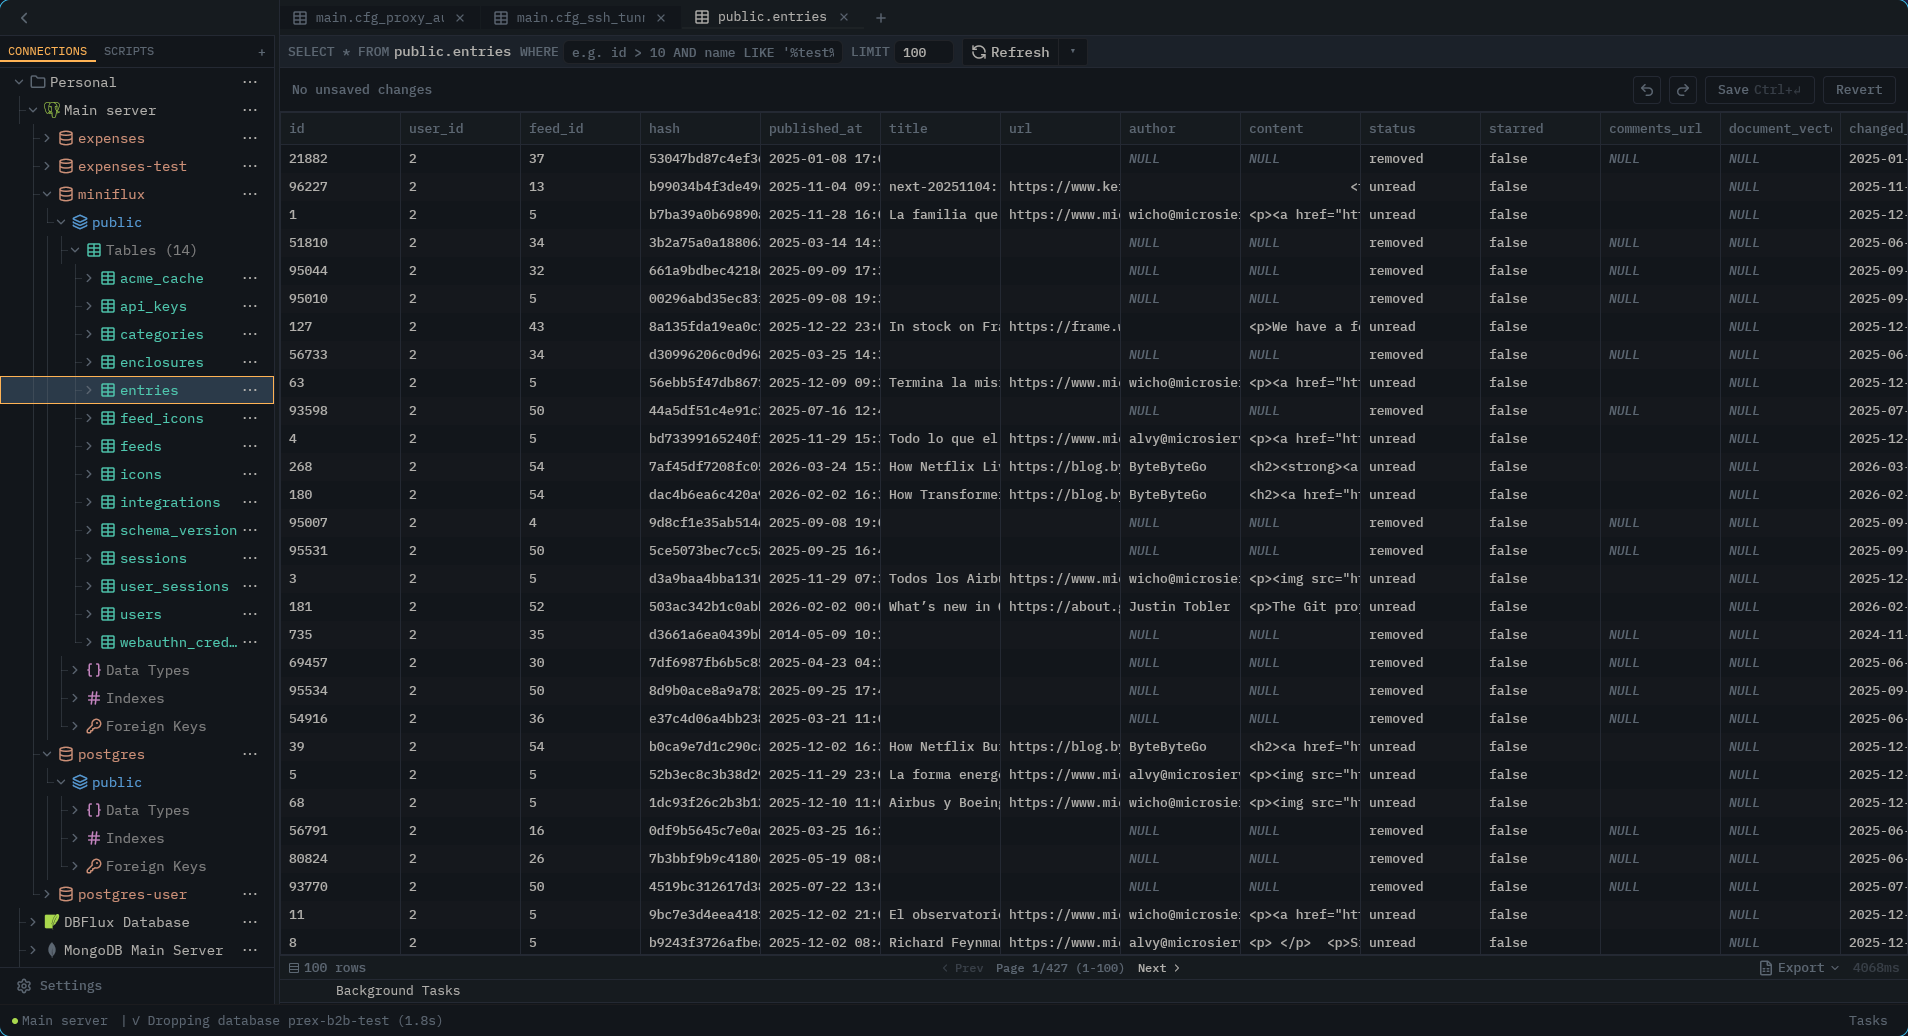
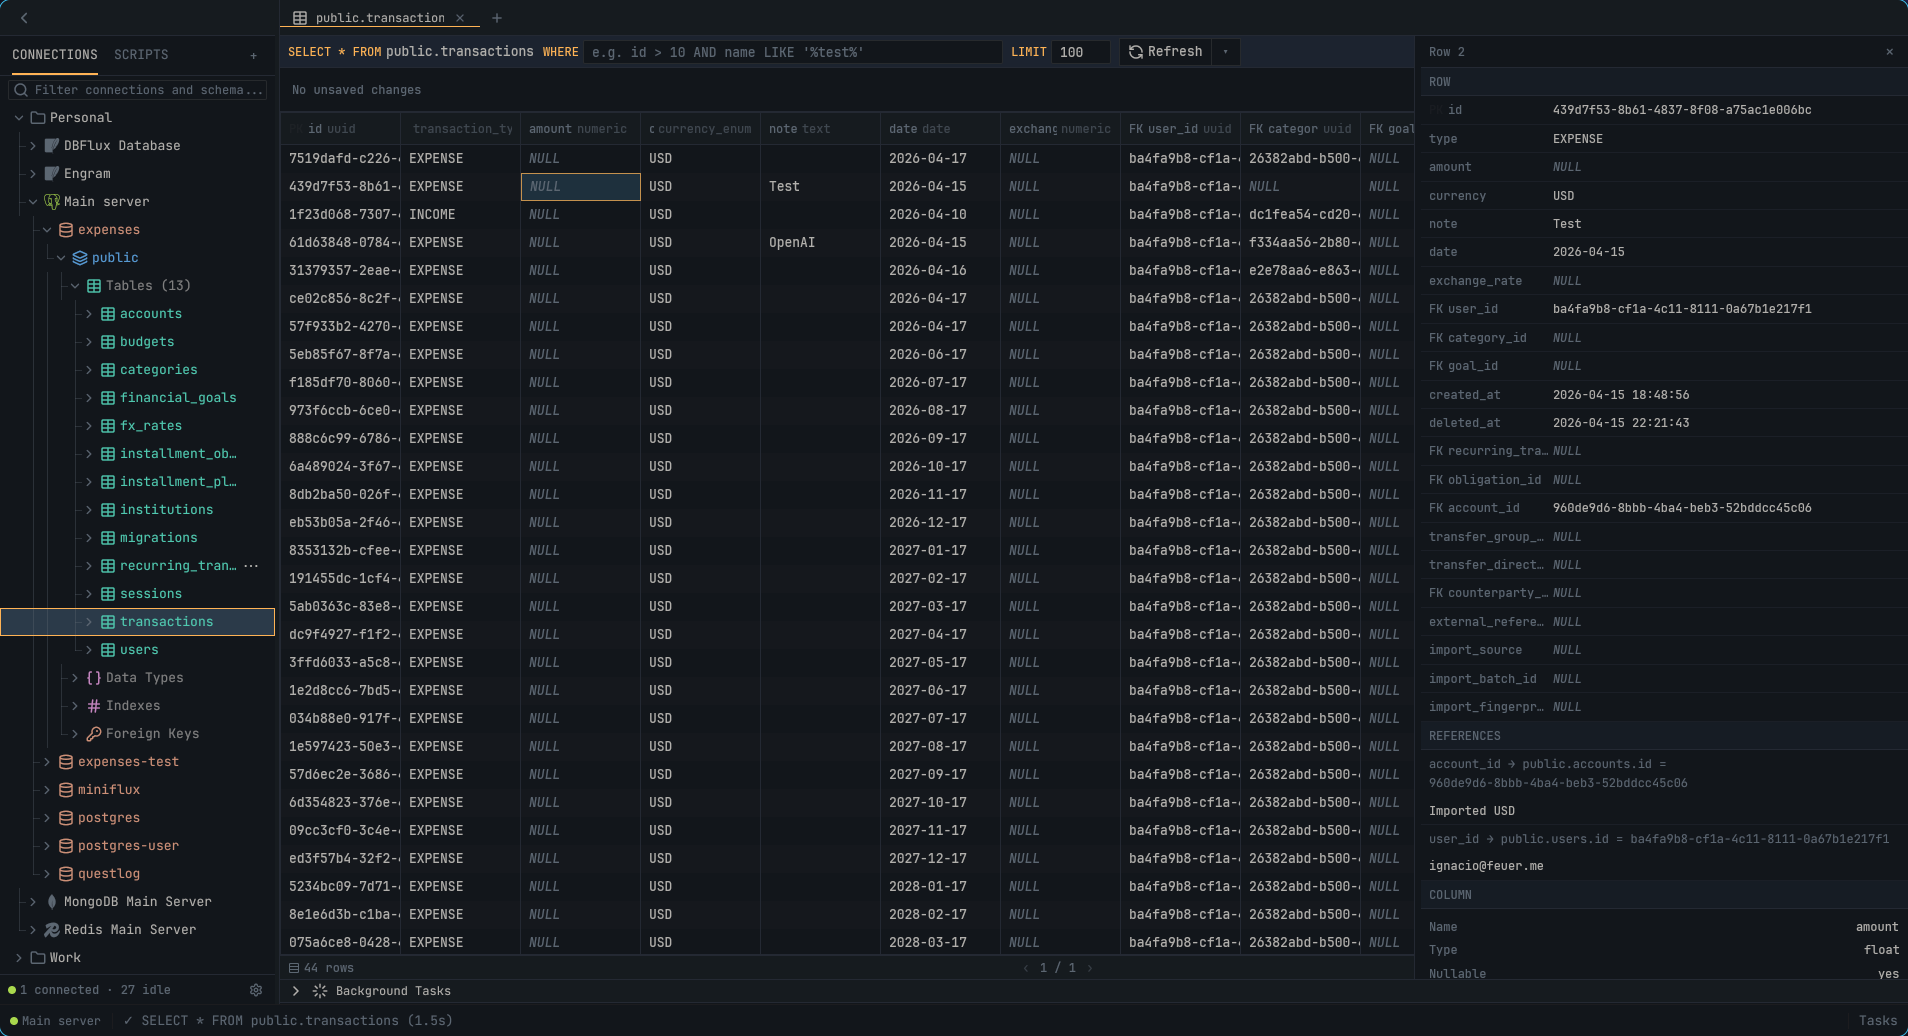
chore(release): v0.5.0
Bump workspace version from 0.5.0-dev.3 to 0.5.0 across Cargo.toml,
crates/dbflux_aws, crates/dbflux_proxy, crates/dbflux_ssm,
crates/dbflux_tunnel_core (and Cargo.lock).

Collapse the four 0.5.0-dev.N changelog sections into a single
[0.5.0] release. Fixes that were follow-ups on features introduced
during the 0.5.0 cycle are folded into the corresponding feature
entries rather than listed separately.

diff --git a/CHANGELOG.md b/CHANGELOG.md
@@ -2,89 +2,97 @@
 
 All notable changes to DBFlux will be documented in this file.
 
-## [0.5.0-dev.3] – 2026-05-08
+## [0.5.0] – 2026-05-11
 
 ### Features
 
-* External RPC auth providers reach AWS-parity capability: any provider can now
-  declare `FormFieldKind::DynamicSelect` fields whose options are fetched via
-  the new `FetchFieldOptions` IPC method, drive an interactive login flow whose
-  device URL surfaces in the existing login modal, and round-trip opaque
-  session state through `AuthSessionDto.session_data`.
-* Auth-provider IPC bumped to v1.2 with a `secret_dependency_opt_in` manifest
-  flag; the host strips `Password`-typed values from `FetchFieldOptions`
-  requests by default.
-* AWS SSO Account ID and Role Name dropdowns now travel through the generic
-  `DynamicSelect` path; the Settings → Access Providers panel no longer hard-
-  codes any provider id.
-* The Provider selector in Settings → Access Providers is a single dropdown
-  over the full registry (built-in + RPC-discovered providers), and the form
-  reloads from the selected provider's manifest.
-* Workspace-wide rustc/clippy lints (warn level) opted into by all driver
-  crates; `rustfmt.toml` baseline added.
+* **Design system foundation** — new `dbflux_components` crate with a complete
+  design-system token scale (`AppStyle` Compact / Default density tiers,
+  semantic color tokens, density accessors threaded through `Button`,
+  `Dropdown`, `PanelHeader`, `Surface`, `Badge`, `FocusFrame`, `Text` and the
+  whole typography stack). The Style is persisted in `general_settings` and
+  selectable from a new Style dropdown in General settings. Ayu Mirage joined
+  Ayu Dark as a first-class theme.
+* **Hi-Fi design bundle applied across the app** — workspace chrome refresh
+  (Linux CSD titlebar with breadcrumb, doc-tab dirty dot, pulsing status bar),
+  sidebar (compact tab strip, magnifier-prefix search, no double border,
+  `StatusDot` per row, single compact footer with connected/idle count),
+  data grid with column PK/FK badges and row-state colors, paginator
+  `‹ N / Total ›`, schema-drift detection with modal, command palette
+  redesign (grouped sections, `Chord` shortcuts, deep-Ayu-Dark background),
+  settings navigation (uppercase XS group headers, `warning_bg`-tinted active
+  item, keybinding rows with `Chord` + conflict banner), audit document
+  6-column grid with `BannerColors` LVL chips, empty workspace state with
+  shortcut chords.
+* **New shared primitives** — `StatusDot`, `BannerBlock`, `TypeToConfirm`,
+  `Chord`, `KbdBadge`, `SegmentedControl`, `FilePicker`, `Logs` icon,
+  `RowColors`/`BannerColors`/`StatusDotPalette` token families, `Anim` and
+  `Widths`/`Shadows` constants.
+* **Rich Toast system** — explicit `Toast::xxx(title).subtitle(...).body(...)`
+  `.details(...).code_block(...).progress(...).action(...).collapsible()`
+  `.push(cx)` builder with auto-dismiss policy per variant, action buttons,
+  collapsible details, and a 4 px left accent stripe. All ~100 call sites
+  migrated to the explicit builder; the old `cx.toast_xxx(msg, window)`
+  trait removed. SQL execution errors render rich with `FormattedError`
+  (subtitle = SQLSTATE, body = message, code_block = HINT, "Copy" action).
+* **Row Inspector overlay** — 320 px floating panel with PK/FK indicators,
+  FK forward-resolution (issued against the per-database connection so it
+  works on Postgres' connection-per-database model), inline wrapping for
+  long FK headers and resolution errors, drag-mask resize (240 – 1280 px),
+  scroll containment, and a working `×` close button.
+* **Connection manager rebuild** — driver picker as a grouped, alphabetical
+  4-col card grid with `/`-focusable filter input and 2D keyboard
+  navigation; per-driver SSL modes via `SegmentedControl` declared by each
+  driver's metadata; cert paths chosen via `FilePicker`; SSH passphrase
+  prompt with 60 min in-memory remember; enriched test-connection
+  `BannerBlock` (engine version, RTT, server time, SSL ciphersuite).
+* **Driver metadata expansion** — new `DatabaseCategory::LogStream` (with
+  CloudWatch reclassified to it and using the new `Logs` icon),
+  `DeploymentClass` enum (Self-hosted / Embedded / Cloud-managed) surfaced
+  in Settings → Drivers, per-driver `SslModeOption` lists and
+  `SslCertFields` capability. MongoDB and Redis gained TLS support
+  (`CombinedPemFile` helper concatenates cert+key for MongoDB).
+* **Schema-aware features** — `SchemaCache::dependents` cache, per-driver
+  `fetch_dependents`, `referenced_tables`, `fetch_row_by_pk`,
+  `test_connection_rich` on `Connection`; `SchemaFingerprint` for drift
+  detection.
+* **Built-in CloudWatch Logs integration** (#43).
+* **External RPC auth providers reach AWS parity** — runtime registration
+  over RPC, login-capable providers with device-URL flow surfaced in the
+  shared login modal, opaque `AuthSessionDto.session_data` round-trip, and
+  generic `DynamicSelect` form fields whose options are fetched through the
+  new `FetchFieldOptions` IPC method. Auth-provider IPC reaches v1.2 with a
+  `secret_dependency_opt_in` manifest flag; `Password`-typed values are
+  stripped from option requests by default. AWS SSO Account ID / Role Name
+  dropdowns now travel through the generic path — no provider id is
+  hard-coded in the Settings panel anymore. The Provider selector is a
+  single dropdown over the full registry (built-in + RPC-discovered).
+* **Sidebar batch delete** — multi-select rows and delete them in one action.
+* **RPC services foundation** — formalised driver and auth-provider service
+  kinds, shared bootstrap, and negotiated API-version contracts at startup.
 
 ### Fixes
 
 * `FetchOptionsError::SessionExpired` and `NeedsLogin` now surface a visible
-  per-field re-login hint and provider-level banner instead of being silently
-  logged.
-* `RefreshTrigger::Manual` no longer auto-fetches on every render; it fetches
-  only on cache miss.
+  per-field re-login hint and provider-level banner instead of being
+  silently logged.
+* `RefreshTrigger::Manual` only fetches on cache miss — no more refetch on
+  every render.
+* MySQL connection configs are preserved across reloads.
+* The data grid keeps CRUD actions available on empty tables.
+* `nix develop` is back to a working state.
+* Sidebar tree survives degraded storage loads and no longer overwrites a
+  broken connection tree.
+* PostgreSQL `GRANT` statements no longer surface false-positive
+  diagnostics in the editor.
+* Editor focus is preserved after running a query.
 
 ### Chores
 
-* CI pipeline runs DynamoDB live integration tests.
-* Rustfmt pass over `cfg_attr` blocks and trailing commas in driver `allow`
-  attributes.
-
-## [0.5.0-dev.2] – 2026-05-07
-
-### Features
-
-* Add built-in CloudWatch Logs integration (#43)
-
-### Fixes
-
-* Sync auth-provider save hooks when profiles are updated
-* Restore `nix develop`
-* Keep empty-table CRUD actions available in the data grid
-* Preserve MySQL connection configs on reload
-
----
-
-## [0.5.0-dev.1] – 2026-04-24
-
-### Features
-
-* Activate external auth providers over RPC, including runtime registration, auth-provider protocol support, and MCP-side registry loading
-* Make RPC auth providers login-capable and document the auth-provider RPC example flow
-
-### Fixes
-
-* Complete the external driver bootstrap flow and enforce negotiated API version contracts during RPC startup
-* Preserve sidebar tree state on degraded storage loads and suppress false PostgreSQL `GRANT` diagnostics in the editor
-
-### Improvements
-
-* Formalize the shared RPC services foundation for driver and auth-provider service kinds
-* Add repo-specific workflow skills used for contributor automation
-
-## [0.5.0-dev.0] – 2026-04-19
-
-### Features
-
-* Add the `dbflux_components` crate with shared design-system primitives and begin migrating the UI onto it
-* Add shared icon and menu item primitives, plus Ayu Mirage and shared chrome semantics for the UI theme system
-
-### Fixes
-
-* Restore full-height workspace editor layout, shared form/menu affordances, settings scroll behavior, and semantic button contrast after the dev/main merge
-* Realign panel and popover surfaces and restore context-menu test selectors needed for regression coverage
-
-### Improvements
-
-* Migrate remaining hardcoded colors, text styles, labels, surfaces, headers, modals, and tabs to the centralized component system
-* Expand design-system regression coverage and centralize architecture references used by the repo documentation
+* CI now runs DynamoDB live integration tests.
+* Workspace-wide rustc/clippy lints (warn level) opted into by all driver
+  crates; `rustfmt.toml` baseline added.
+* Repo-specific workflow skills added for contributor automation.
 
 ---
 